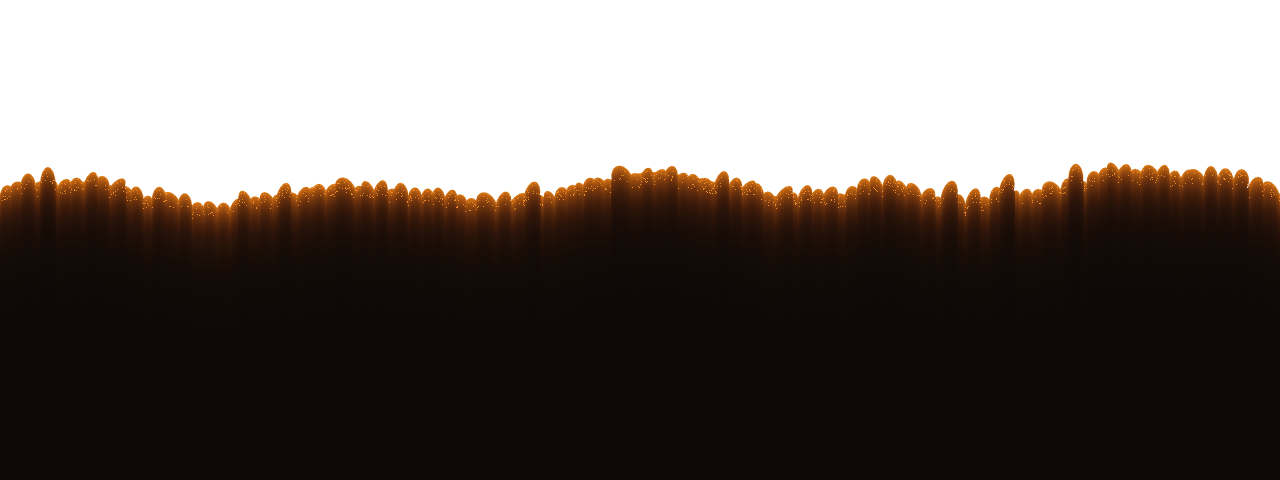
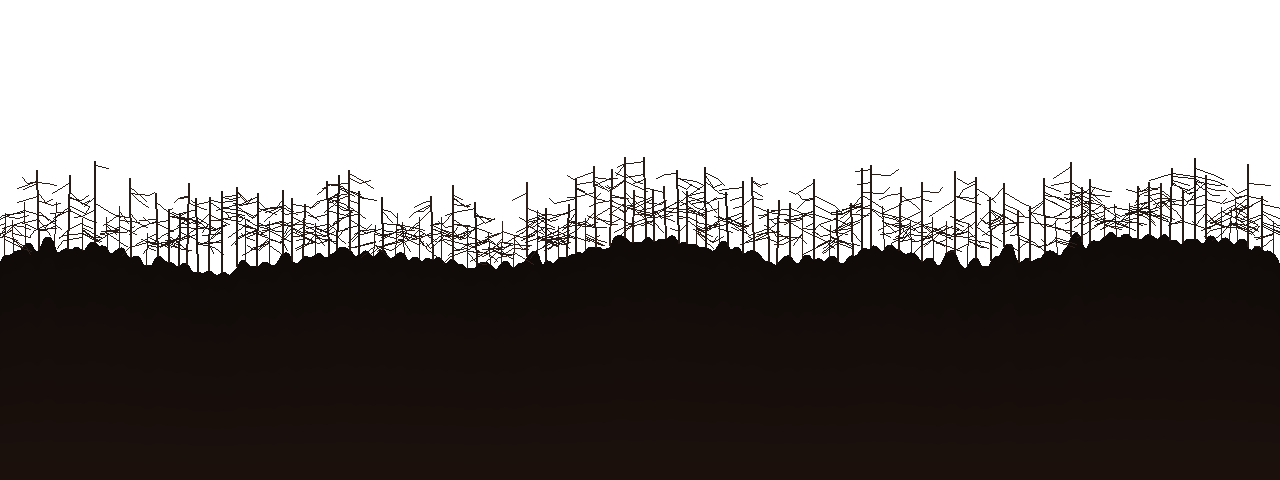
Skull Racer: retint road/grass to match box art, rebuild trees
COLORS.LIGHT/DARK road+grass in common.js were a generic "scorched
earth" brown guess from an earlier pass. Sampled the actual box art
(images/skullracer.jpg) directly instead -- cracked charcoal-brown
pavement (~#413125 lit / #090a0a shadow), near-black brownish rock
ground (~#15130e-#2a1c11) -- and retinted into that family. Kept the
original's exact alternating-contrast PATTERN unchanged (road stays
close to constant between light/dark segments, rumble strips still
swing hard between much darker and much lighter than the road for the
flashing-curb motion cue, grass stays darkest throughout), only the
hue/tone family moved, so legibility at speed isn't any worse than it
already was. Verified against actual rendered canvas pixel data (not
just eyeballing a screenshot, which undersold how dark the new grass
reads) -- sampled pixels match the intended hex values exactly.

images/background/trees.png: user's own redo, rebuilt into
images/background.png via rake resprite. Dimensions unchanged,
background.js's coordinates already matched common.js's BACKGROUND
object -- no sync needed.

Claude-Session: https://claude.ai/code/session_01L1Brt3dEHi9FppeKAtq9Ha

Changed region(s): [[0.0, 0.3438, 1.0, 0.5938]]

diff --git a/racing/common.js b/racing/common.js
@@ -446,14 +446,22 @@ var KEY = {
 
 // Not sprite-based -- these are hardcoded fill colors for the
 // procedurally-drawn road/grass/fog, so replacing every image asset never
-// touched them. Bright greens (#10AA10/#009A00 grass, #005108 fog) swapped
-// for a scorched-earth palette to match the dark wasteland theme.
+// touched them. First pass swapped the original bright greens for a
+// generic "scorched-earth" brown; this pass samples the actual box art
+// (images/skullracer.jpg -- cracked charcoal-brown pavement, near-black
+// rocky ground) for the real values instead of an approximation. Kept the
+// original's alternating-contrast PATTERN (road stays close to constant
+// between light/dark segments, rumble strips swing hard between much
+// darker and much lighter than the road for the "flashing curb" motion
+// cue, grass stays darkest throughout) -- only retinted into the box
+// art's family, not restructured, so it doesn't get any harder to read
+// the road at speed than it already was.
 var COLORS = {
   SKY:  '#72D7EE',
   TREE: '#2a1d16',
-  FOG:  '#3a2216',
-  LIGHT:  { road: '#6B6B6B', grass: '#4a2e1f', rumble: '#555555', lane: '#CCCCCC'  },
-  DARK:   { road: '#696969', grass: '#3a2216', rumble: '#BBBBBB'                   },
+  FOG:  '#241a10',
+  LIGHT:  { road: '#4a3d2c', grass: '#201808', rumble: '#241c10', lane: '#d9c8a0'  },
+  DARK:   { road: '#453825', grass: '#170f06', rumble: '#9c8a68'                   },
   START:  { road: 'white',   grass: 'white',   rumble: 'white'                     },
   FINISH: { road: 'black',   grass: 'black',   rumble: 'black'                     }
 };
